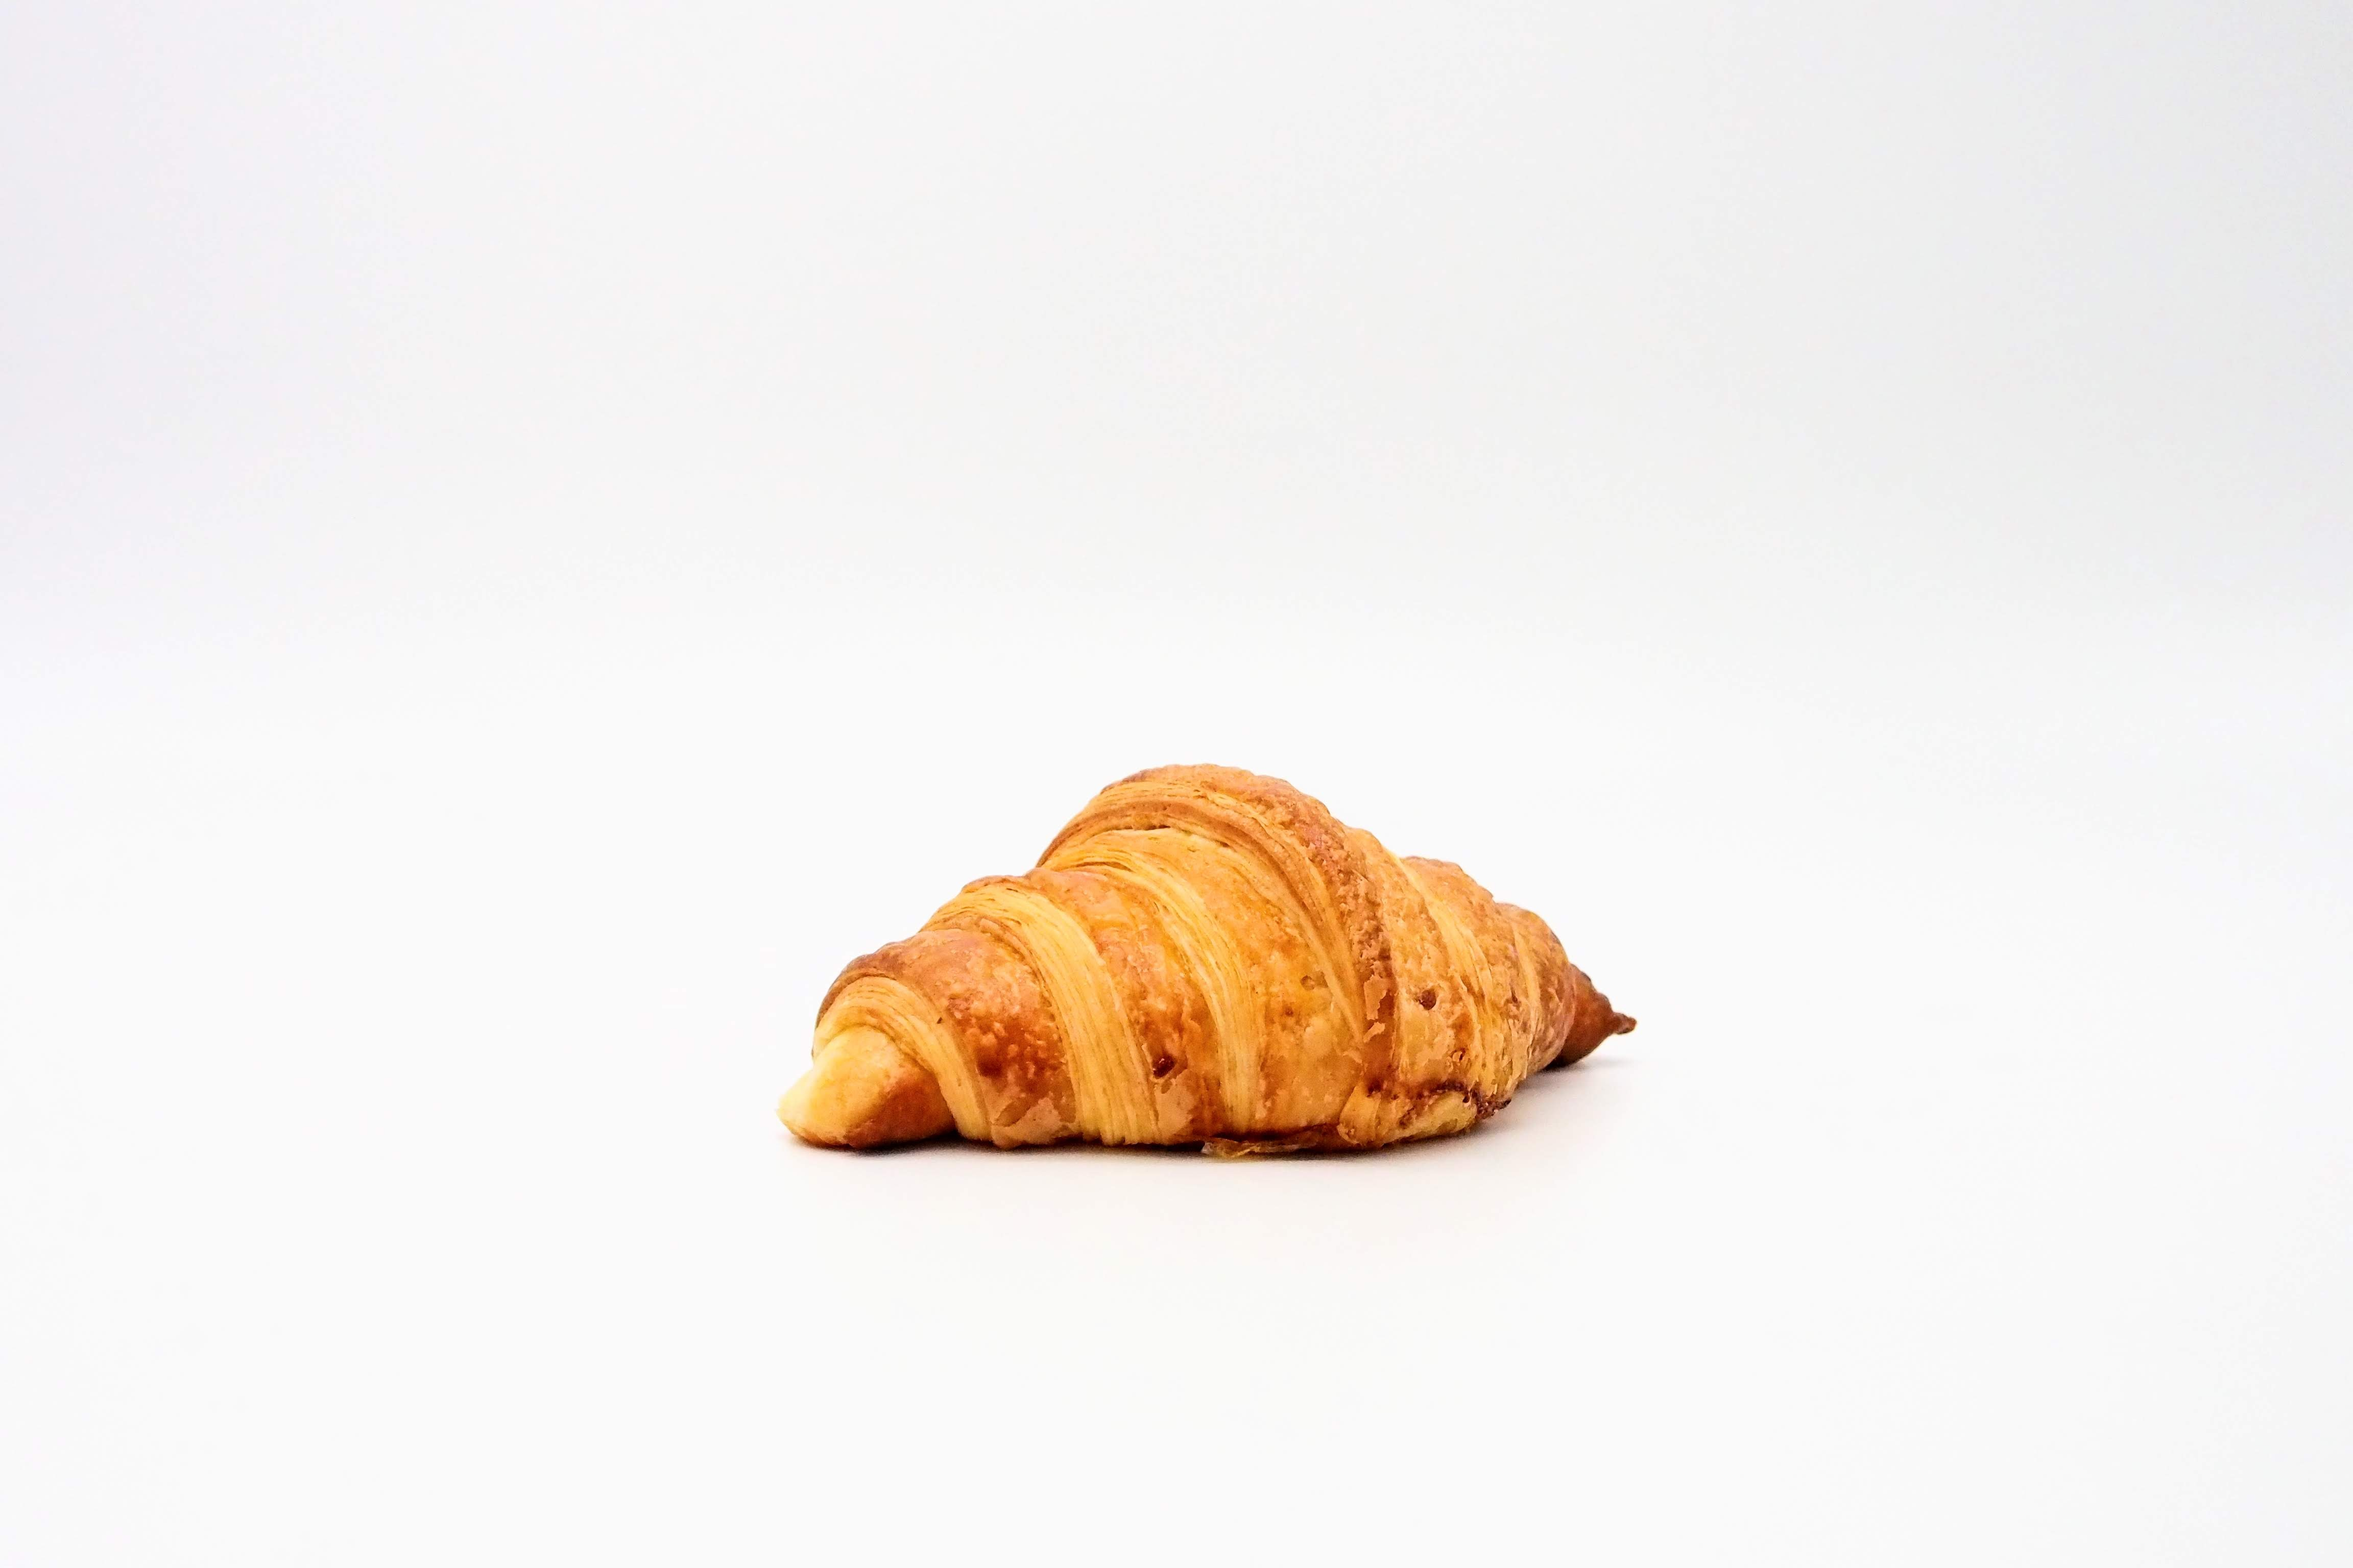
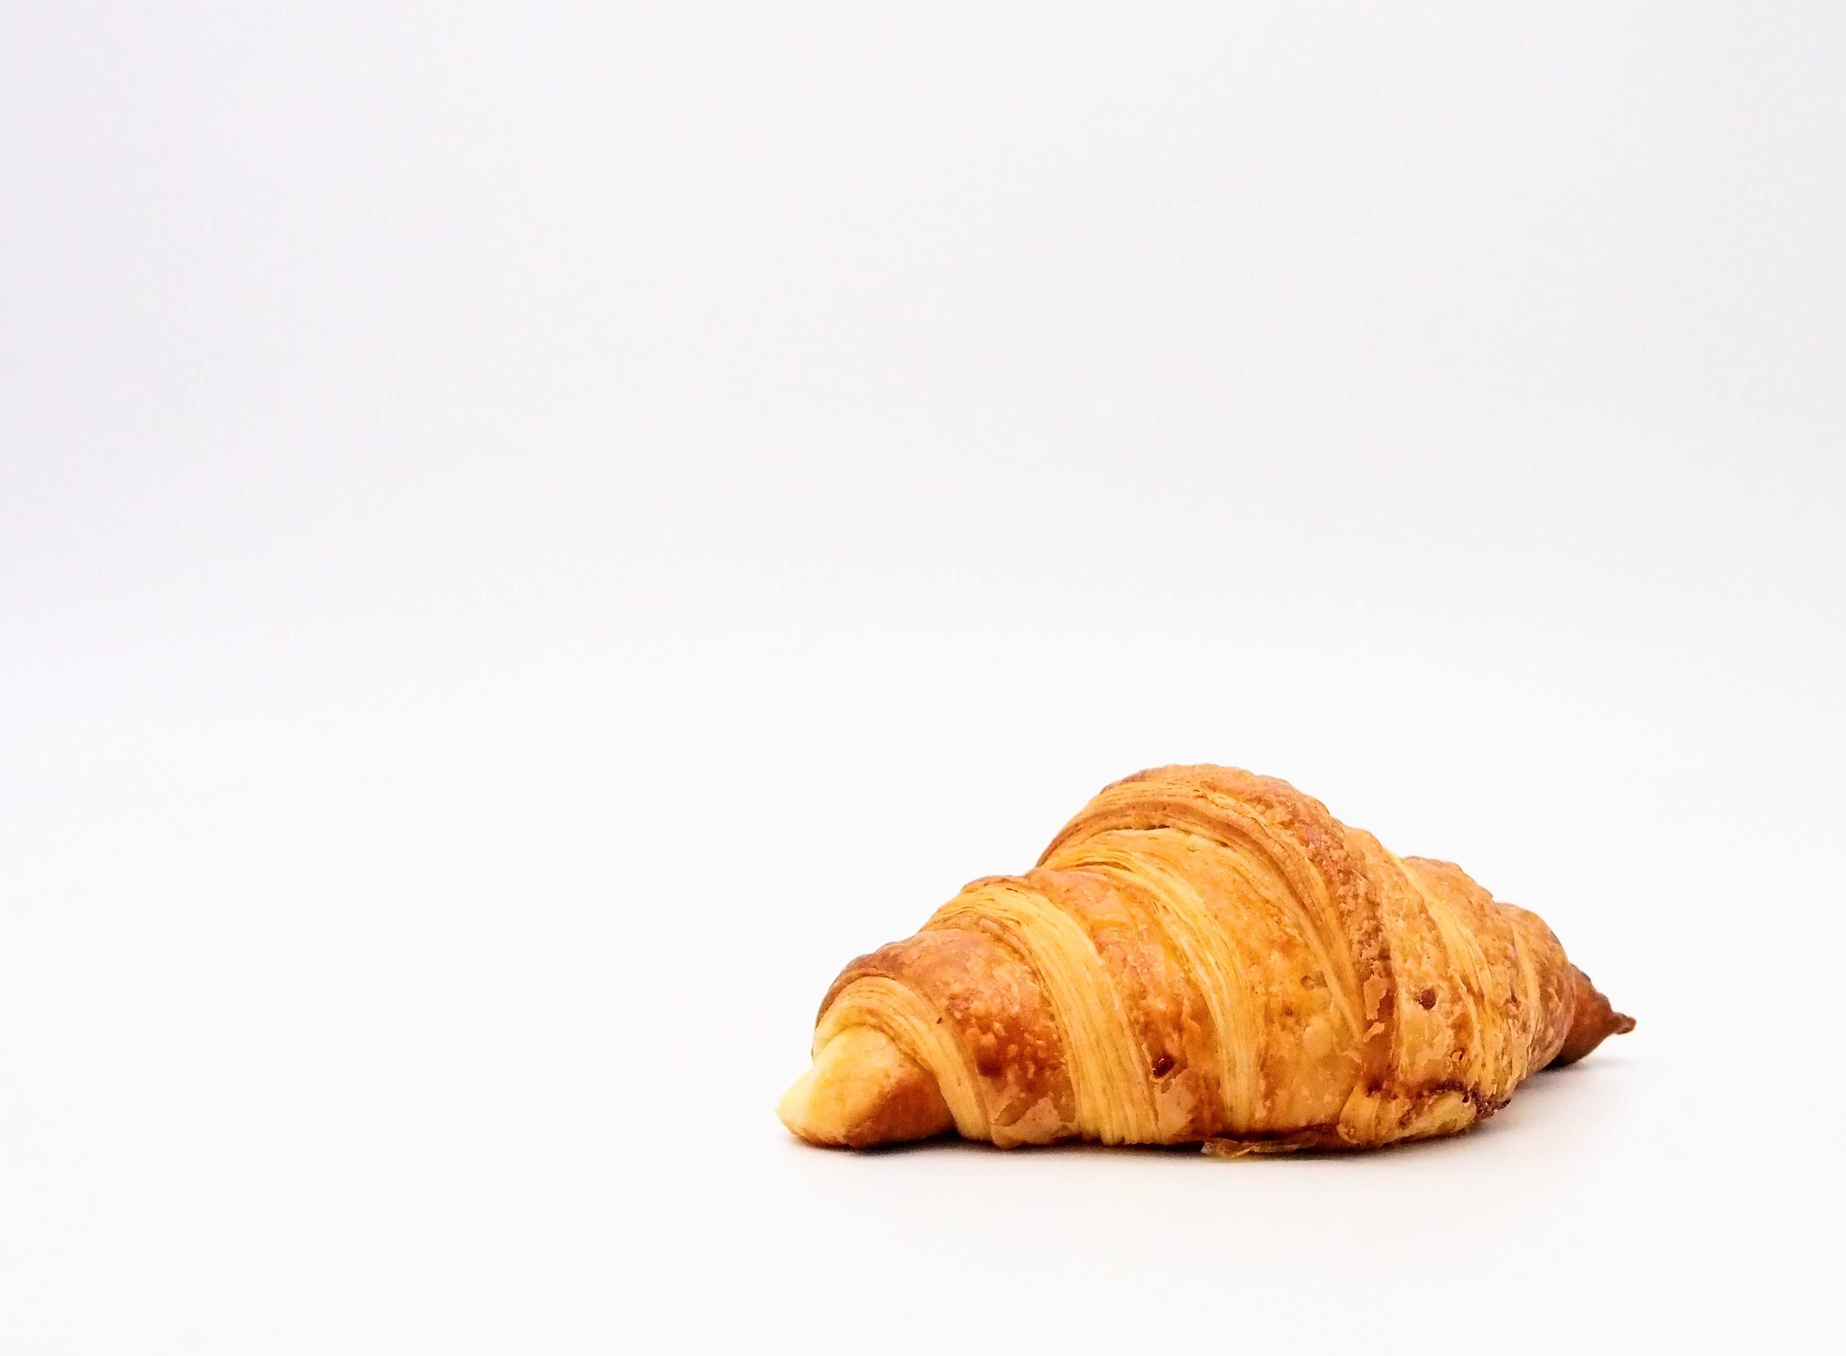
creation de la page Desktop (en att. maj : "Envoyer" + redimention background img)

Changed region(s): [[0.3125, 0.4686, 0.9062, 0.8747]]

diff --git a/styleG.css b/styleG.css
@@ -28,7 +28,48 @@
     }
     .infoBloc:hover :first-child {
         animation-play-state: paused;
+
+    }
+
+img {
+  
+    position: relative;
+    max-width: 1440px; 
+    height: auto;
+
 }
+ #contactForm {
+    position: absolute;
+    width: 648px;
+    height: 27px;
+    left: 72px;
+    top: 180px;
+}
+ #name, #mail, #msg{
+        background-color: rgb(255, 255, 255);
+        margin:1%;
+        width: 80%;
+        height: 3.2em;
+        border-radius: 20px;
+        border-style: none;
+        text-align: center;
+}
+#submit{
+    justify-content: center;
+    background-color: #E1D3BF ;
+    margin:3%;
+    width: 50%;
+    height: 3.2em;
+    border-radius: 20px;
+    border-style: none;
+
+}
+area{
+    margin: 0 50%;
+}
+
+
+
 
 
   @keyframes defilement {

diff --git a/index.html b/index.html
@@ -25,8 +25,8 @@
 
      <main>
 
-<img id="croissant" src="./images/croissantMobile.png">
-<div id="contact">
+<img class="croissant" src="./images/croissantcontact.jpg">
+<div class="contact">
 <form id="contactForm" action="" method="post">
     <div id="area">
         <label for="name" ></label>
